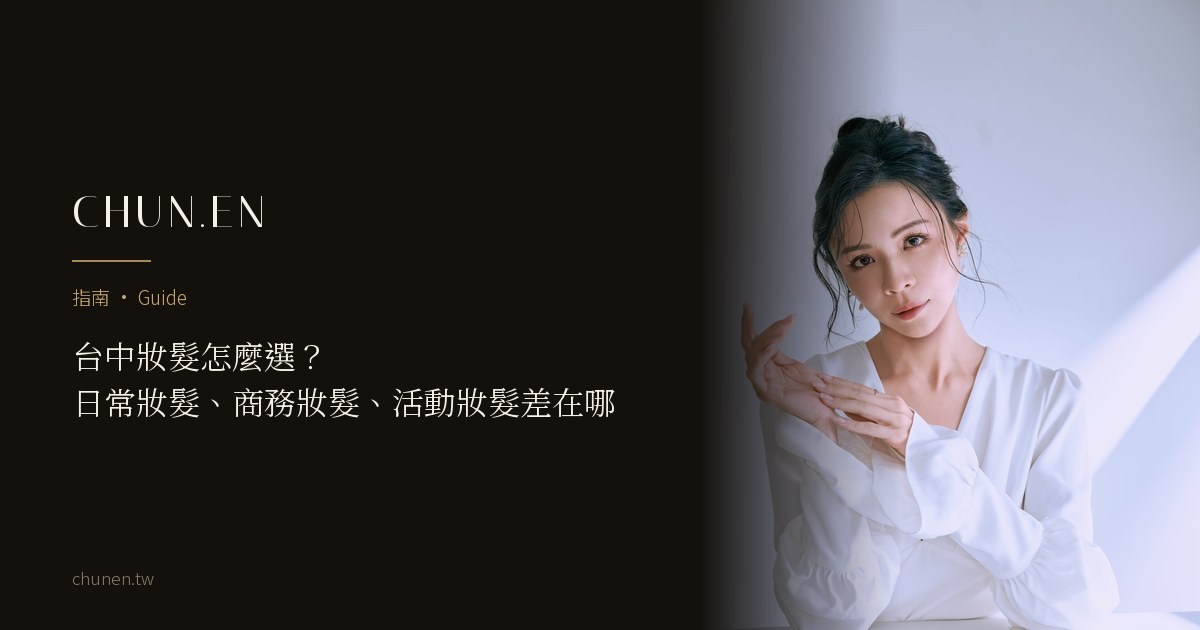
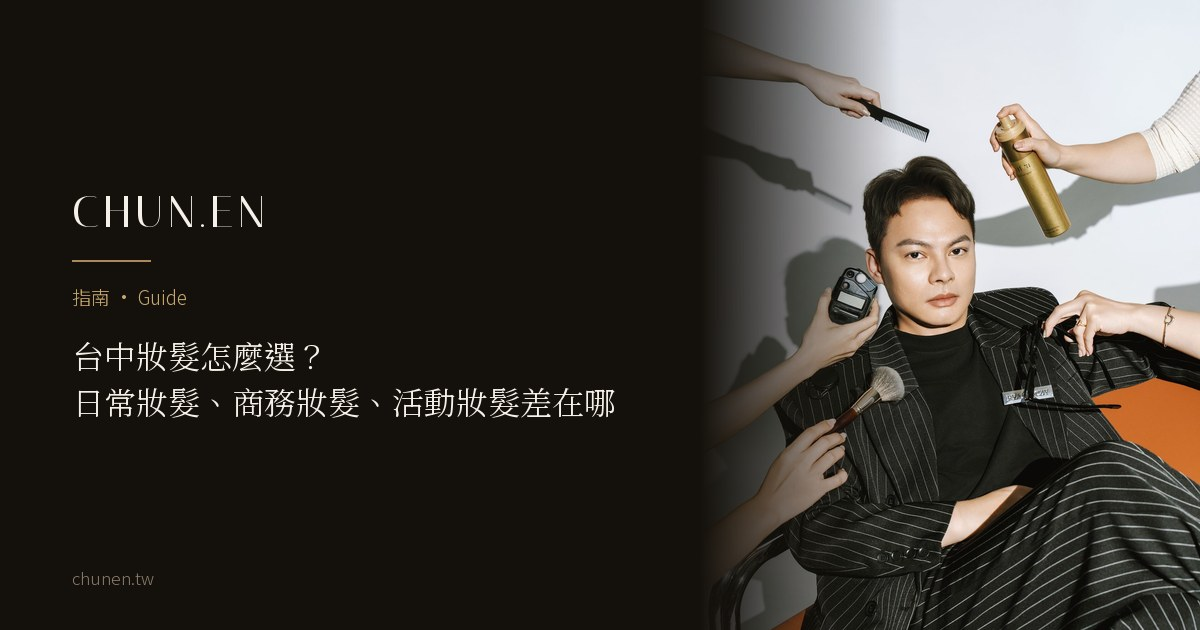
journal(B2)：指南篇與活動篇改用妝髮現場實拍
指南篇 hero 換成張承鋒 DSC00677：多位造型師同時以梳子、定型噴霧、粉刷與測光錶
在旁作業。這篇是 Hub，要一眼說明「妝髮服務」是什麼，服務進行中的畫面比成果照直白。

活動篇 hero 換成林琮濬 _RWS8315、inline 換成 _RWS8347：燈泡鏡的化妝間就是上台
前的最後一關，跟本文的燈光、觀看距離、補整三個條件同一個場景。

兩張是 3:2 橫式，inline 的 crop45 要拿掉——那個 class 是強制 4:5 cover，
橫圖進去左右各被切掉三成。hero 的 height 也從 2100 改成 933，否則版位會先
撐出一塊直式空白再跳。

活動篇的示意圖與備用圖 543 一併刪除，兩者都已無人引用。

diff --git a/journal/event-hair-makeup.html b/journal/event-hair-makeup.html
@@ -77,7 +77,7 @@
 
     <div class="wrap article-wrap">
       <div class="jcard-media rv" style="aspect-ratio: auto; width: auto; max-width: 620px; margin: 0 auto clamp(2.5rem, 6vh, 4rem);">
-        <picture style="display:block"><source type="image/webp" srcset="../assets/gallery/journal/event-hair-makeup-hero-v2-760.webp 760w, ../assets/gallery/journal/event-hair-makeup-hero-v2-1240.webp 1240w" sizes="(max-width: 700px) calc(100vw - 40px), 620px" /><img src="../assets/gallery/journal/event-hair-makeup-hero-v2-1400.jpg" alt="強光下的人物近景，手扶臉側，盤髮與妝面清楚" style="width:100%;height:auto;display:block;" width="1400" height="2100" fetchpriority="high" /></picture>
+        <picture style="display:block"><source type="image/webp" srcset="../assets/gallery/journal/event-hair-makeup-hero-v3-760.webp 760w, ../assets/gallery/journal/event-hair-makeup-hero-v3-1240.webp 1240w" sizes="(max-width: 700px) calc(100vw - 40px), 620px" /><img src="../assets/gallery/journal/event-hair-makeup-hero-v3-1400.jpg" alt="化妝間鏡前的人物坐姿，燈泡鏡與暖光，手正整理瀏海" style="width:100%;height:auto;display:block;" width="1400" height="933" fetchpriority="high" /></picture>
       </div>
 
       <div class="keypoints rv">
@@ -111,9 +111,9 @@
         <h2>哪些場合<em>常見活動妝髮需求</em></h2>
         <p>常見包括年會尾牙、頒獎典禮、正式晚宴、記者會、產品發表與講座。不同場合的燈光、服裝、拍攝方式與活動時間不同，妝髮也會跟著調整。如果同時需要準備講師人物影像，可延伸閱讀〈<a href="speaker-trainer-portrait.html">講師形象照</a>〉。</p>
 
-        <figure class="article-fig crop45">
-          <picture style="display:block"><source type="image/webp" srcset="../assets/gallery/journal/event-hair-makeup-inline-v2-760.webp 760w, ../assets/gallery/journal/event-hair-makeup-inline-v2-1240.webp 1240w" sizes="(max-width: 700px) calc(100vw - 40px), 620px" /><img src="../assets/gallery/journal/event-hair-makeup-inline-v2-1400.jpg" alt="人物坐在椅上的全身照，白棚與斜射光" width="1400" height="2100" loading="lazy" /></picture>
-          <figcaption>同一套妝髮，在不同燈光與距離下呈現的樣子不一樣。（CHUN.EN 妝髮造型）</figcaption>
+        <figure class="article-fig">
+          <picture style="display:block"><source type="image/webp" srcset="../assets/gallery/journal/event-hair-makeup-inline-v3-760.webp 760w, ../assets/gallery/journal/event-hair-makeup-inline-v3-1240.webp 1240w" sizes="(max-width: 700px) calc(100vw - 40px), 620px" /><img src="../assets/gallery/journal/event-hair-makeup-inline-v3-1400.jpg" alt="化妝間鏡中的人物，前景是整排刷具與彩妝盤" width="1400" height="933" loading="lazy" /></picture>
+          <figcaption>活動的妝髮多半在化妝間完成，那裡的燈光和舞台上不一樣。（CHUN.EN 妝髮造型）</figcaption>
         </figure>
 
         <h2>企業團體妝髮<em>怎麼安排</em></h2>

diff --git a/journal/hair-makeup-service-guide.html b/journal/hair-makeup-service-guide.html
@@ -77,7 +77,7 @@
 
     <div class="wrap article-wrap">
       <div class="jcard-media rv" style="aspect-ratio: auto; width: auto; max-width: 620px; margin: 0 auto clamp(2.5rem, 6vh, 4rem);">
-        <picture style="display:block"><source type="image/webp" srcset="../assets/gallery/journal/hair-makeup-service-guide-hero-v3-760.webp 760w, ../assets/gallery/journal/hair-makeup-service-guide-hero-v3-1240.webp 1240w" sizes="(max-width: 700px) calc(100vw - 40px), 620px" /><img src="../assets/gallery/journal/hair-makeup-service-guide-hero-v3-1400.jpg" alt="白棚近景人物照，雙手輕靠臉側，盤髮與妝面清楚" style="width:100%;height:auto;display:block;" width="1400" height="2100" fetchpriority="high" /></picture>
+        <picture style="display:block"><source type="image/webp" srcset="../assets/gallery/journal/hair-makeup-service-guide-hero-v4-760.webp 760w, ../assets/gallery/journal/hair-makeup-service-guide-hero-v4-1240.webp 1240w" sizes="(max-width: 700px) calc(100vw - 40px), 620px" /><img src="../assets/gallery/journal/hair-makeup-service-guide-hero-v4-1400.jpg" alt="白棚人物坐姿，多位造型師同時以梳子、定型噴霧、粉刷與測光錶在旁作業" style="width:100%;height:auto;display:block;" width="1400" height="2100" fetchpriority="high" /></picture>
       </div>
 
       <div class="keypoints rv">
